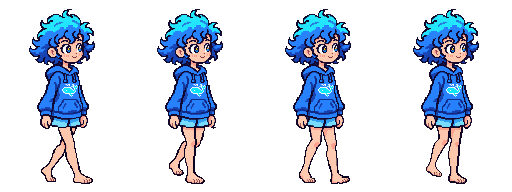
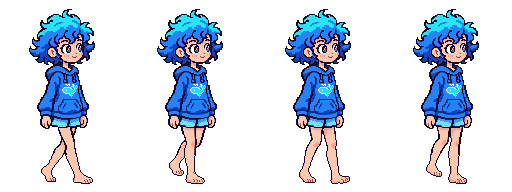
Redraw the edges of Oni's walking legs and feet

diff --git a/assets/production/characters/source/export_oni_walk.py b/assets/production/characters/source/export_oni_walk.py
@@ -2,13 +2,14 @@
 
 from PIL import Image
 
-from export_luna_story import PREPARED, export, frame_on_canvas
+from export_luna_story import PREPARED, export
 from export_sprites import CHARACTERS, NEAREST, load
 
 CELL = (128, 192)
 PIVOT = (64, 184)
 SOURCE = CHARACTERS / "source/oni-walk"
 SOURCE_PIVOT = (504, 1472)
+SOURCE_PIXELS_PER_PIXEL = 8
 SHORTS_HEM = 127
 POSES = (
     ("contact-near", 140),
@@ -18,19 +19,75 @@ POSES = (
 )
 
 
+CONTOUR = (21, 9, 44)
+CARDINAL_STEPS = ((-1, 0), (1, 0), (0, -1), (0, 1))
+
+
+def ink_leg_edges(colors, silhouette):
+    inked = colors.copy()
+    mask = silhouette.load()
+    surface = colors.load()
+    left, _, right, bottom = silhouette.getbbox()
+    edge = {
+        (x, y)
+        for y in range(8, bottom)
+        for x in range(left, right)
+        if mask[x, y] and any(
+            y + dy >= bottom or not mask[x + dx, y + dy]
+            for dx, dy in CARDINAL_STEPS
+        )
+    }
+    for x, y in edge:
+        inked.putpixel((x, y), CONTOUR)
+        if y + SHORTS_HEM < 155:
+            continue
+        for dx, dy in CARDINAL_STEPS:
+            px, py = x + dx, y + dy
+            if py >= bottom or not mask[px, py] or (px, py) in edge:
+                continue
+            if surface[px, py][0] >= 125:
+                continue
+            # Remove the doubled dark fringe just inside the outer contour.
+            # Sample inward so toe marks and drawn contacts stay intact.
+            for distance in (1, 2, 3):
+                tx, ty = px + distance * dx, py + distance * dy
+                if not (left <= tx < right and 0 <= ty < bottom and mask[tx, ty]):
+                    break
+                skin = surface[tx, ty]
+                if skin[0] >= 210:
+                    inked.putpixel((px, py), skin)
+                    break
+    return inked
+
+
+def registered_legs(source):
+    left = SOURCE_PIVOT[0] - PIVOT[0] * SOURCE_PIXELS_PER_PIXEL
+    top = SOURCE_PIVOT[1] - (PIVOT[1] - SHORTS_HEM) * SOURCE_PIXELS_PER_PIXEL
+    region = source.crop((left, top, left + CELL[0] * SOURCE_PIXELS_PER_PIXEL,
+                          source.getbbox()[3]))
+    size = (CELL[0], PIVOT[1] - SHORTS_HEM)
+    # Measure coverage once at the final resolution. Keep nearest samples
+    # for the palette and use the covered color when a center sample is clear.
+    coverage = region.getchannel("A").resize(size, Image.Resampling.BOX)
+    outline = coverage.point(lambda alpha: 255 if alpha >= 128 else 0)
+    sampled = region.resize(size, NEAREST)
+    legs = region.resize(size, Image.Resampling.BOX).convert("RGB")
+    legs.paste(sampled.convert("RGB"), mask=sampled.getchannel("A"))
+    return ink_leg_edges(legs, outline), outline
+
+
 def main():
     idle = load(PREPARED / "oni-idle-front-right.png")
     frames = []
     for name, duration in POSES:
-        pose = frame_on_canvas(name, 8, SOURCE_PIVOT, CELL, PIVOT, source_dir=SOURCE)
-        # Start the changing region at the shorts hem so the original head,
-        # neck, outfit and hands keep their exact registration.
-        bottom = pose.getbbox()[3]
-        legs = pose.crop((0, SHORTS_HEM, CELL[0], bottom))
-        legs = legs.resize((CELL[0], PIVOT[1] - SHORTS_HEM), NEAREST)
+        legs, outline = registered_legs(load(SOURCE / f"{name}.png"))
         frame = Image.new("RGBA", CELL)
         frame.paste(idle.crop((0, 0, CELL[0], SHORTS_HEM)))
-        frame.paste(legs, (0, SHORTS_HEM))
+        frame.paste(legs, (0, SHORTS_HEM), outline)
+        # Preserve the bottom of each idle cuff where its fixed hand reaches
+        # below the shorts-hem compositing line.
+        for left, right in ((0, 49), (79, CELL[0])):
+            frame.paste(idle.crop((left, SHORTS_HEM, right, 131)), (left, SHORTS_HEM))
         frames.append((name, frame, duration))
 
     export("oni-classic-walk-front-right", "front_right", CELL, PIVOT, frames, {
